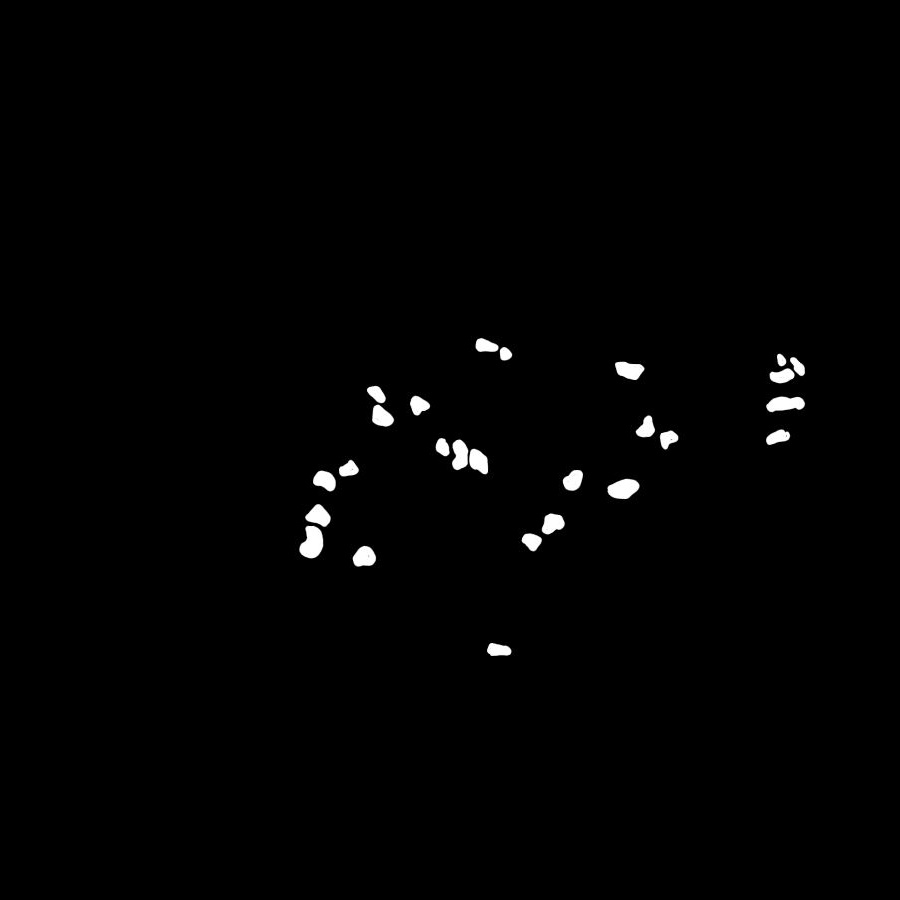
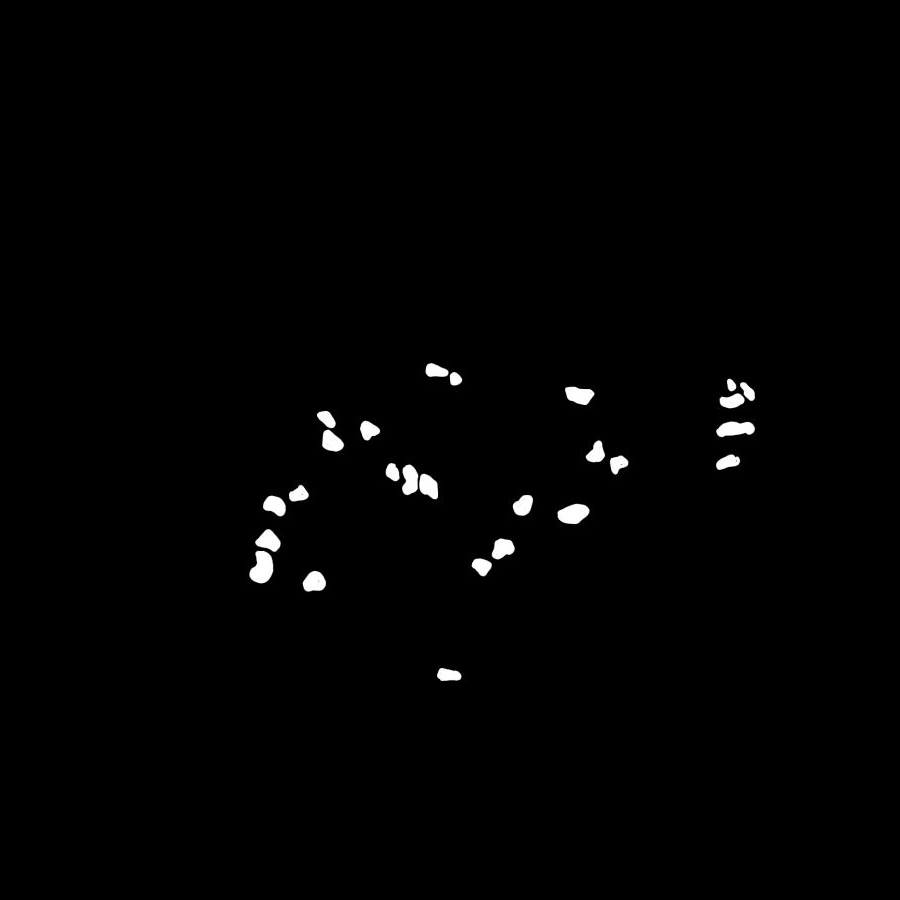
przycinanie zdjęć: 8 (działa)

diff --git a/training/przytnij.py b/training/przytnij.py
@@ -4,8 +4,8 @@ import matplotlib.pyplot as plt
 
 
 nazwa="8.jpg"
-x=450
-y=1400
+x=500
+y=1375
 w=h=900
 # h=873
 
